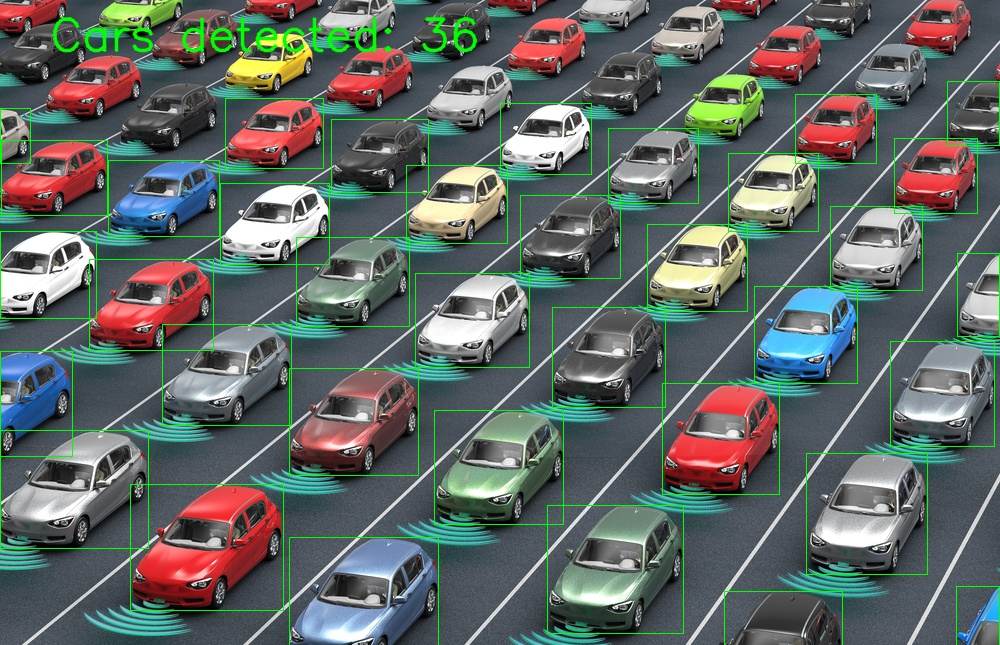
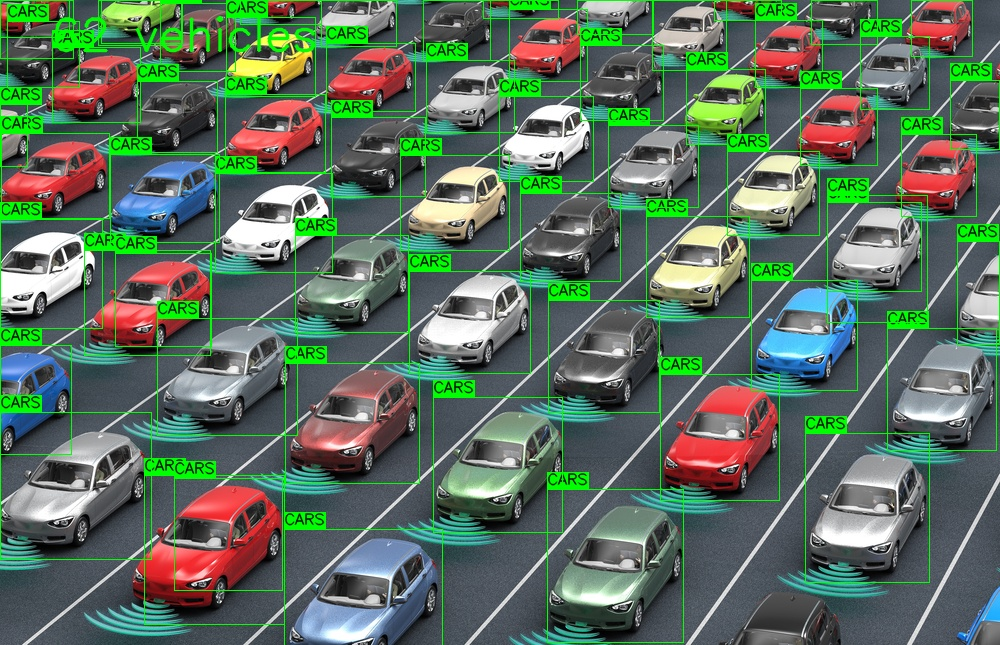
first commit

diff --git a/insideRectangle.py b/insideRectangle.py
@@ -24,7 +24,7 @@ output_dir = 'output_images'  # Directory to save the annotated images
 os.makedirs(output_dir, exist_ok=True)
 
 # Load the model
-model_path = 'yolov8x.pt'
+model_path = 'bestbest.pt'
 model = YOLO(model_path)
 
 # Get list of video files in the directory
@@ -34,7 +34,7 @@ video_files = [f for f in os.listdir(VIDEOS_DIR) if f.endswith('.mp4')]
 vehicle_class_ids = [2, 3, 5, 7]
 
 # Define the rectangle coordinates
-rect_points = np.array([(4, 710), (613, 14), (747, 12), (1278, 478)], np.int32)
+rect_points = np.array([(13, 355), (604, 356), (364, 4), (141, 13)], np.int32)
 rect_points = rect_points.reshape((-1, 1, 2))
 
 def is_point_in_polygon(polygon, point):
@@ -93,7 +93,7 @@ for video_file in video_files:
                  cv2.putText(frame, text, (int(x1), int(y1) - baseline), cv2.FONT_HERSHEY_SIMPLEX, 0.5, (0, 0, 0), 1, cv2.LINE_AA)
                  vehicle_count += 1
 
-    cv2.putText(frame, f'Vehicles detected: {vehicle_count}', (50, 50), cv2.FONT_HERSHEY_SIMPLEX, 1.5, (0, 255, 0), 2, cv2.LINE_AA)
+    cv2.putText(frame, f'Vehicles detected: {vehicle_count}', (50, 50), cv2.FONT_HERSHEY_SIMPLEX, 1, (0, 255, 0), 2, cv2.LINE_AA)
 
     # Save the annotated image
     cv2.imshow("output_image_path", frame)

diff --git a/pridict.py b/pridict.py
@@ -14,9 +14,9 @@ ret, frame = cap.read()
 H, W, _ = frame.shape
 out = cv2.VideoWriter(video_path_out, cv2.VideoWriter_fourcc(*'MP4V'), int(cap.get(cv2.CAP_PROP_FPS)), (W, H))
 
-model_path = os.path.join('ourBest.pt')
+model_path = os.path.join('bestbest.pt')
 
-model = YOLO("yolov8x.pt")
+model = YOLO("bestbest.pt")
 
 threshold = 0.3
 
@@ -36,9 +36,12 @@ while ret:
 
             cv2.rectangle(frame, (int(x1), int(y1)), (int(x1) + text_width, int(y1) - text_height - baseline), (0, 255, 0), -1)
 
-            cv2.putText(frame, text, (int(x1), int(y1) - baseline), cv2.FONT_HERSHEY_SIMPLEX, 0.5, (0, 0, 0), 1, cv2.LINE_AA)
-    cv2.putText(frame, f'Cars detected: {car_count}', (50, 50), cv2.FONT_HERSHEY_SIMPLEX, 1.5, (0, 255, 0), 2, cv2.LINE_AA)
-    out.write(frame)
+            cv2.putText(frame, text, (int(x1), int(y1) - baseline), cv2.FONT_HERSHEY_SIMPLEX, 0.3, (0, 0, 0), 1, cv2.LINE_AA)
+    cv2.putText(frame, f'Cars detected: {car_count}', (50, 50), cv2.FONT_HERSHEY_SIMPLEX, 1, (0, 255, 0), 2, cv2.LINE_AA)
+    cv2.imshow("frame",frame) 
+    if cv2.waitKey(30) & 0xFF == ord('q'):
+            break
+    # out.write(frame)
     ret, frame = cap.read()
 
 cap.release()

diff --git a/pridictFromImages.py b/pridictFromImages.py
@@ -3,8 +3,8 @@ from ultralytics import YOLO
 import cv2
 
 # Path to the input image
-image_path = './images/input_images/imhh.png'  
-output_image_path = './images/output_images/imhh.png'  
+image_path = './images/input_images/im4.webp'  
+output_image_path = './images/output_images/im42.jpg'  
 
 # Load the model
 model_path = 'yolov8x.pt'  # Path to the YOLO model weights
@@ -38,7 +38,7 @@ for result in results.boxes.data.tolist():
         car_count += 1
 
 # Print the number of cars detected on the image
-cv2.putText(frame, f'{car_count} vehicles', (50, 50), cv2.FONT_HERSHEY_SIMPLEX, 1.5, (0, 255, 0), 2, cv2.LINE_AA)
+cv2.putText(frame, f'{car_count} vehicles', (50, 50), cv2.FONT_HERSHEY_SIMPLEX, 1, (0, 255, 0), 2, cv2.LINE_AA)
 
 # Save the annotated image
 cv2.imwrite(output_image_path, frame)

diff --git a/pridict_only_left_side.py b/pridict_only_left_side.py
@@ -99,7 +99,7 @@ def process_and_save_frame(frame, frame_idx):
                 car_count += 1
 
     # Print the number of cars detected on the left-hand side
-    cv2.putText(frame, f'Cars detected: {car_count}', (50, 50), cv2.FONT_HERSHEY_SIMPLEX, 1.5, (0, 255, 0), 2, cv2.LINE_AA)
+    cv2.putText(frame, f'Cars detected: {car_count}', (50, 50), cv2.FONT_HERSHEY_SIMPLEX, 1, (0, 255, 0), 2, cv2.LINE_AA)
 
     # Save the annotated frame
     output_image_path = os.path.join(output_image_dir, f'frame_{frame_idx}.jpg')

diff --git a/predictor.py b/predictor.py
@@ -101,7 +101,7 @@ for video_file in video_files:
     for class_id in vehicle_class_ids:
         class_name = class_list[class_id]
         count = vehicle_counts[class_id]
-        cv2.putText(frame, f'{class_name}: {count}', (50, y_offset), cv2.FONT_HERSHEY_SIMPLEX, 1.5, (0, 255, 0), 2, cv2.LINE_AA)
+        cv2.putText(frame, f'{class_name}: {count}', (50, y_offset), cv2.FONT_HERSHEY_SIMPLEX, 1, (0, 255, 0), 2, cv2.LINE_AA)
         y_offset += 50
 
     cv2.imwrite(output_image_path, frame)

diff --git a/countingByClass.py b/countingByClass.py
@@ -94,7 +94,7 @@ for video_file in video_files:
     for class_id in vehicle_class_ids:
         class_name = class_list[class_id]
         count = vehicle_counts[class_id]
-        cv2.putText(frame, f'{class_name}: {count}', (50, y_offset), cv2.FONT_HERSHEY_SIMPLEX, 1.5, (0, 255, 0), 2, cv2.LINE_AA)
+        cv2.putText(frame, f'{class_name}: {count}', (50, y_offset), cv2.FONT_HERSHEY_SIMPLEX, 1, (0, 255, 0), 2, cv2.LINE_AA)
         y_offset += 50
 
     cv2.imwrite(output_image_path, frame)

diff --git a/pridict_one_frame.py b/pridict_one_frame.py
@@ -70,7 +70,7 @@ for video_file in video_files:
             
             vehicle_count += 1
 
-    cv2.putText(frame, f'Vehicles detected: {vehicle_count}', (50, 50), cv2.FONT_HERSHEY_SIMPLEX, 1.5, (0, 255, 0), 2, cv2.LINE_AA)
+    cv2.putText(frame, f'Vehicles detected: {vehicle_count}', (50, 50), cv2.FONT_HERSHEY_SIMPLEX, 1, (0, 255, 0), 2, cv2.LINE_AA)
 
     cv2.imwrite(output_image_path, frame)
     laneNumber += 1
